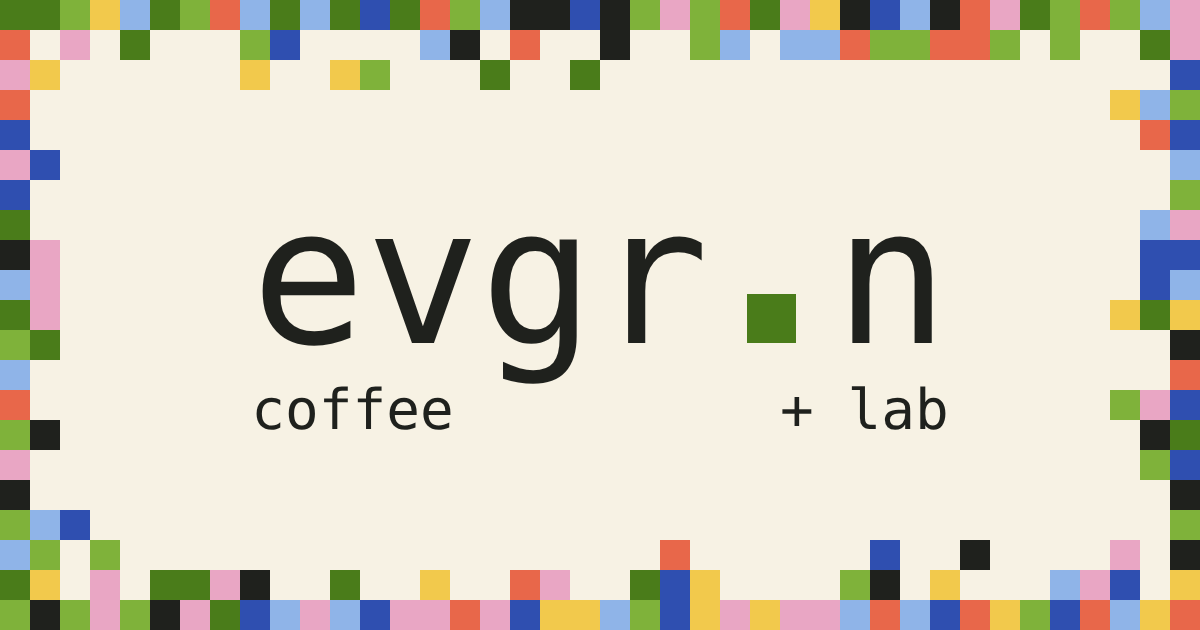
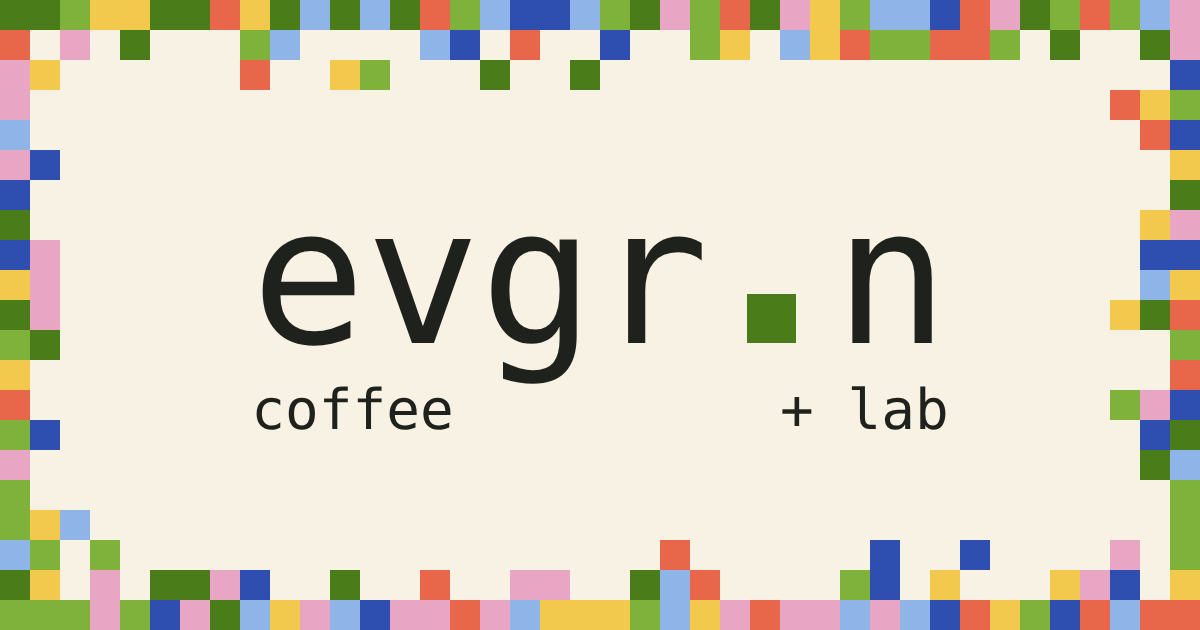
Use JetBrains Mono; remove black from checker patterns
Claude-Session: https://claude.ai/code/session_01Mwi9kq1QzVUGU8jy2Rbjtj

diff --git a/index.html b/index.html
@@ -18,7 +18,7 @@
 <link rel="icon" href="favicon.svg" type="image/svg+xml">
 <link rel="preconnect" href="https://fonts.googleapis.com">
 <link rel="preconnect" href="https://fonts.gstatic.com" crossorigin>
-<link href="https://fonts.googleapis.com/css2?family=IBM+Plex+Mono:wght@400;500;600&family=IBM+Plex+Sans:wght@400;500&display=swap" rel="stylesheet">
+<link href="https://fonts.googleapis.com/css2?family=JetBrains+Mono:wght@400;500;600;700&family=IBM+Plex+Sans:wght@400;500&display=swap" rel="stylesheet">
 <link rel="stylesheet" href="style.css">
 </head>
 <body>
@@ -161,7 +161,7 @@
 
 <script>
   // pixel-grid mosaic in the house palette
-  const palette = ['#4a7c1a','#7fb23a','#1f211d','#f7f2e4','#2f4fb0','#8fb4e8','#f2c94c','#e8674a','#e9a6c4'];
+  const palette = ['#4a7c1a','#7fb23a','#f7f2e4','#2f4fb0','#8fb4e8','#f2c94c','#e8674a','#e9a6c4'];
   // strips: two identical halves side by side so they can scroll left forever
   document.querySelectorAll('.mosaic').forEach(el => {
     const cols = +el.dataset.cols, rows = +el.dataset.rows;
@@ -179,7 +179,7 @@
   });
   // checkered pixel frame around the logo
   (function () {
-    const colors = ['#4a7c1a','#7fb23a','#1f211d','#2f4fb0','#8fb4e8','#f2c94c','#e8674a','#e9a6c4'];
+    const colors = ['#4a7c1a','#7fb23a','#2f4fb0','#8fb4e8','#f2c94c','#e8674a','#e9a6c4'];
     const seed = Math.floor(Math.random() * 1e9);
     function rng(a) { return function () { a |= 0; a = a + 0x6D2B79F5 | 0; let t = Math.imul(a ^ a >>> 15, 1 | a); t = t + Math.imul(t ^ t >>> 7, 61 | t) ^ t; return ((t ^ t >>> 14) >>> 0) / 4294967296; }; }
     function draw(el) {

diff --git a/style.css b/style.css
@@ -14,7 +14,7 @@
   --sand: #8fb4e8;       /* light blue */
   --sage: #2f4fb0;       /* blue */
 
-  --mono: "IBM Plex Mono", ui-monospace, Menlo, monospace;
+  --mono: "JetBrains Mono", ui-monospace, Menlo, monospace;
   --sans: "IBM Plex Sans", system-ui, -apple-system, sans-serif;
 }
 
@@ -320,3 +320,6 @@ h3 { font-size: 1.05rem; display: flex; align-items: center; gap: .6rem; margin-
   @keyframes strip-left { from { transform: translateX(0); } to { transform: translateX(-50%); } }
 }
 .logo-frame .px { transition: background-color 1.2s ease; }
+
+/* logo weight to match the brand board */
+.logo-word, .nav-logo { font-weight: 500; }
